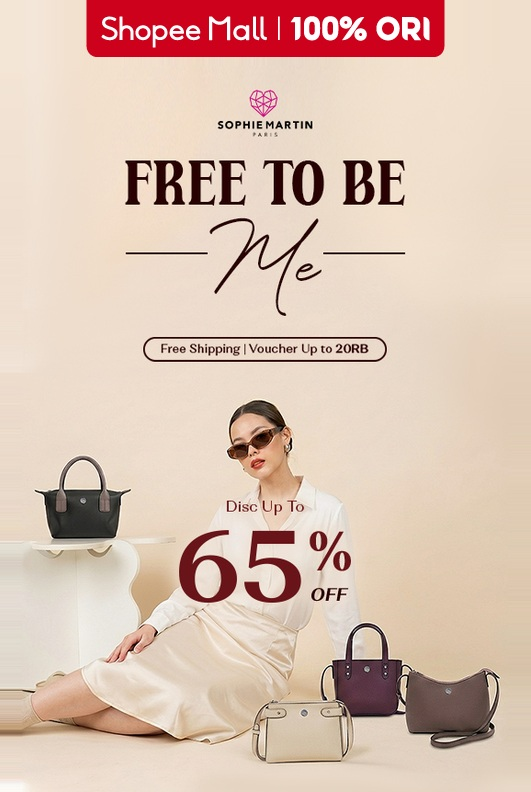
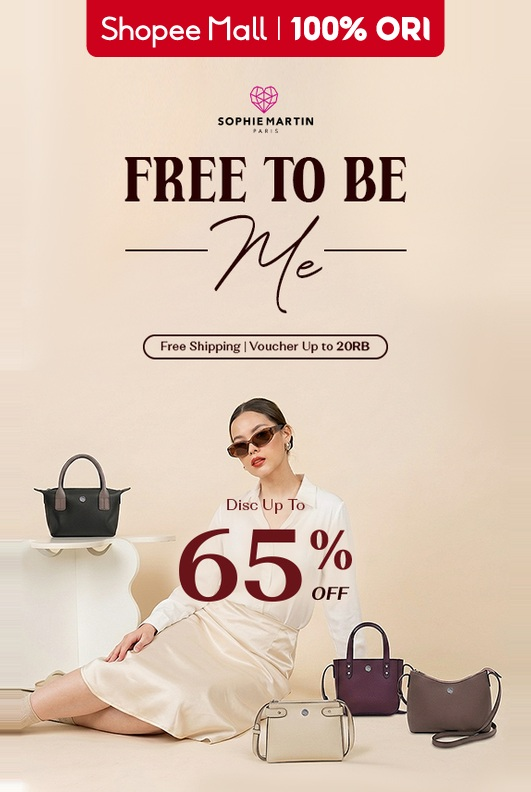
Fit the key visual at maximum scale and add a full-bleed layout option
The reflow was shrinking the artwork against the raw canvas, so the key visual's
empty top and bottom margins ate into the space available below the Shopee Mall
tag. build_framed now measures the artwork's real content bounds and fits those
between the tag and the window floor instead, which takes Skinny App from
727x218 to 778x233 and cuts the cream side panels from 381px to 330px.

Adds --layout fullbleed for filling the window edge to edge with no added
background. It is not the default because with this key visual it costs two
guideline problems: the tag covers the model's head, and the bags are cropped at
y302 when they run to y352. Both variants are kept so the trade-off is visible.

Documents why full-bleed cannot preserve the face and the SKU at once: the model
sits at x600-750 against a tag at x392-807, and clearing it horizontally would
need 680px of pan against 178px of available slack.

Claude-Session: https://claude.ai/code/session_01EUPPJuxJ1YMegAN2Ghs9Mq

diff --git a/shopee_brand_max/build_banners.py b/shopee_brand_max/build_banners.py
@@ -196,6 +196,20 @@ def place_seamless(
     return base.convert("RGBA")
 
 
+def content_bounds(im: Image.Image, tol: int = 14) -> tuple[int, int]:
+    """
+    First and last row that actually carries artwork, ignoring the flat background
+    margins. Used to fit as much of the key visual as possible into the space the
+    Shopee Mall tag leaves free — fitting the raw canvas instead would waste the
+    empty margins and shrink the artwork more than necessary.
+    """
+    a = np.array(im.convert("RGB")).astype(int)
+    bg = np.array(edge_colour(im))
+    diff = np.sqrt(((a - bg) ** 2).sum(2))
+    rows = np.where((diff > tol).sum(1) > im.width * 0.01)[0]
+    return (int(rows.min()), int(rows.max())) if len(rows) else (0, im.height - 1)
+
+
 def overlay_geometry(tpl: Image.Image) -> dict:
     """Measure where the template's red Shopee Mall tag and clear window sit."""
     t = np.array(tpl.convert("RGBA")).astype(int)
@@ -251,7 +265,8 @@ def save_within_budget(im: Image.Image, dest: Path, spec: Spec) -> int:
 # ------------------------------------------------------------------ per-format build
 
 
-def build_framed(spec: Spec, kv: Image.Image, tpl: Image.Image) -> Image.Image:
+def build_framed(spec: Spec, kv: Image.Image, tpl: Image.Image,
+                 layout: str = "reflow") -> Image.Image:
     """
     Banner Card / Skinny App / Skinny Web.
 
@@ -270,20 +285,26 @@ def build_framed(spec: Spec, kv: Image.Image, tpl: Image.Image) -> Image.Image:
         canvas.alpha_composite(tpl)
         return canvas
 
-    if tag is None:
-        return framed(kv.resize((ww, wh), Image.LANCZOS), wx0, wy0)
+    if layout == "fullbleed" or tag is None:
+        # Fill the window edge to edge, adding no background at all. Whatever the
+        # tag lands on stays hidden, and the artwork's bottom is cropped to fit.
+        s = max(ww / kv.width, wh / kv.height)
+        big = kv.resize((round(kv.width * s), round(kv.height * s)), Image.LANCZOS)
+        return framed(big.crop((0, 0, ww, wh)), wx0, wy0)
 
     tx0, ty0, tx1, ty1 = tag
     tag_w = tx1 - tx0 + 1
     # A tag spanning most of the width can only be cleared vertically; a narrow
     # one parked in a corner is cheaper to clear horizontally.
     if tag_w > spec.width * 0.25:
-        band = max(0, ty1 - wy0 + 8)  # push artwork below the tag
-        h = wh - band
-        w = round(kv.width * h / kv.height)
-        if w > ww:
-            w, h = ww, round(kv.height * ww / kv.width)
-        return framed(kv.resize((w, h), Image.LANCZOS), wx0 + (ww - w) // 2, wy0 + band)
+        # Largest scale that still clears the tag and keeps the artwork inside the
+        # window. Measured from real content bounds rather than the raw canvas, so
+        # empty margins in the key visual do not shrink the artwork needlessly.
+        top, bot = content_bounds(kv)
+        s = min((wy1 - (ty1 + 4)) / max(1, bot - top), ww / kv.width)
+        w, h = round(kv.width * s), round(kv.height * s)
+        return framed(kv.resize((w, h), Image.LANCZOS),
+                      wx0 + (ww - w) // 2, round(ty1 + 4 - top * s))
 
     # Narrow tag: shrink the artwork so it stops before the tag's column.
     if tx0 > spec.width / 2:
@@ -435,8 +456,8 @@ def cmd_build(args: argparse.Namespace) -> int:
                 tuple(fl.get("tab_box", [133, 17, 226, 97])),
             )
         else:
-            result = build_framed(spec, kv, tpl)
-            result = result.convert("RGB")
+            layout = cfg.get("layout", {}).get(spec.key, args.layout)
+            result = build_framed(spec, kv, tpl, layout).convert("RGB")
 
         ext = "png" if spec.fmt == "PNG" else "jpg"
         dest = out / f"{spec.key}_{spec.width}x{spec.height}.{ext}"
@@ -458,6 +479,10 @@ def main() -> int:
     b.add_argument("--assets", default="./assets")
     b.add_argument("--out", default="./out")
     b.add_argument("--config", default="config.json")
+    b.add_argument("--layout", choices=["reflow", "fullbleed"], default="reflow",
+                   help="reflow: artwork dikecilkan agar bebas dari tag (default). "
+                        "fullbleed: artwork penuh tanpa background tambahan, "
+                        "tapi tag menutupi artwork dan bagian bawah terpotong.")
     b.set_defaults(func=cmd_build)
     return parser.parse_args().func(parser.parse_args())
 

diff --git a/shopee_brand_max/README.md b/shopee_brand_max/README.md
@@ -80,6 +80,37 @@ horizontal, jadi artwork dikecilkan sampai berhenti sebelum kolom tag.
   lalu ditaruh di tab putih, close button dipertahankan utuh, output PNG transparan.
 - **Ukuran file ditekan otomatis** sampai di bawah batas tiap format.
 
+## Soal "background putih" di Skinny App
+
+Ada dua area terang yang berbeda asalnya:
+
+1. **Frame luar (`#F1F1F1`) + garis putih membulat** — ini datang dari template resmi
+   Shopee, bukan tambahan. Guideline mencantumkan *"There is no white outline"* sebagai
+   contoh yang **di-reject**, jadi outline ini wajib dan tidak boleh dihapus. Di aplikasi
+   Shopee, area `#F1F1F1` menyatu dengan background halaman.
+2. **Panel cream di kiri-kanan artwork** — ini konsekuensi artwork dikecilkan supaya
+   bebas dari tag.
+
+Kenapa artwork tidak bisa full-bleed? Karena tiga hal ini tidak bisa terpenuhi sekaligus:
+
+| | tanpa background tambahan | wajah terlihat | tas (SKU) utuh |
+|---|:---:|:---:|:---:|
+| `--layout fullbleed` | ✅ | ❌ tertutup tag | ❌ terpotong di y302 |
+| `--layout reflow` (default) | ❌ | ✅ | ✅ |
+
+Model berada di tengah-atas KV (x600–750, y5–105) sedangkan tag ada di x392–807, y24–92 —
+persis bertumpuk. Panning horizontal tidak menolong: agar kepala lolos ke kanan tag
+dibutuhkan geser >680px, sedangkan slack yang tersedia hanya 178px. Tas ada di y255–352,
+sementara full-bleed sudah memotong di y302.
+
+Script memakai skala **maksimum** yang masih menjaga wajah dan tas: artwork 778x233
+(bukan 727x218), panel cream 330px (bukan 381px). Itu batas matematisnya untuk KV ini.
+
+**Solusi sebenarnya:** minta desainer me-layout ulang KV di dalam safe area — kanvas
+1200x360, window aman x46–1153/y39–317, dan **zona larangan x392–807/y24–92** yang harus
+bersih dari subjek. Model cukup digeser keluar dari tengah-atas, artwork langsung bisa
+full-bleed tanpa kehilangan apa pun.
+
 ## Yang tetap butuh file berlapis dari desainer
 
 - **Jumlah KSP.** KV memuat 3 blok teks — tagline "FREE TO BE Me", "Free Shipping |
